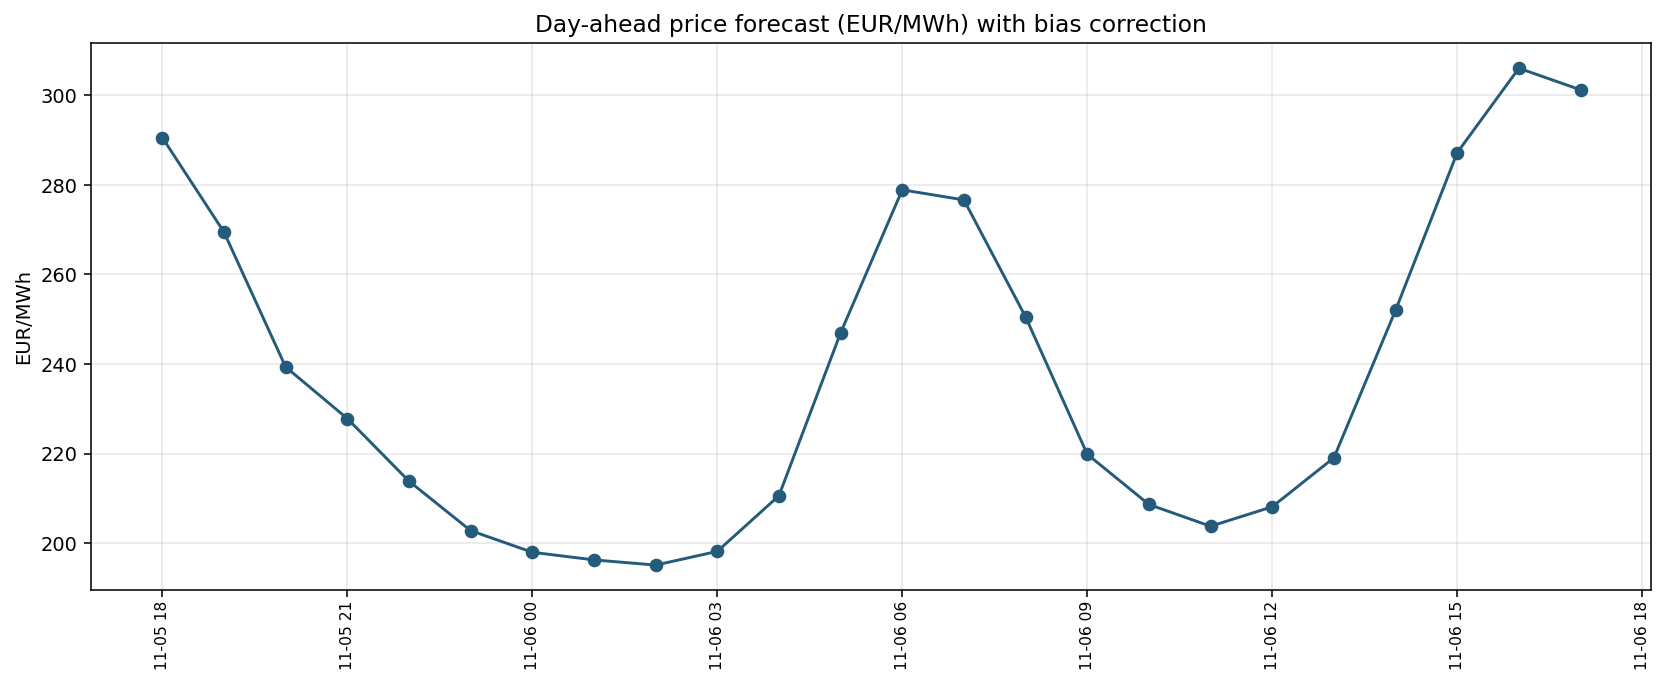
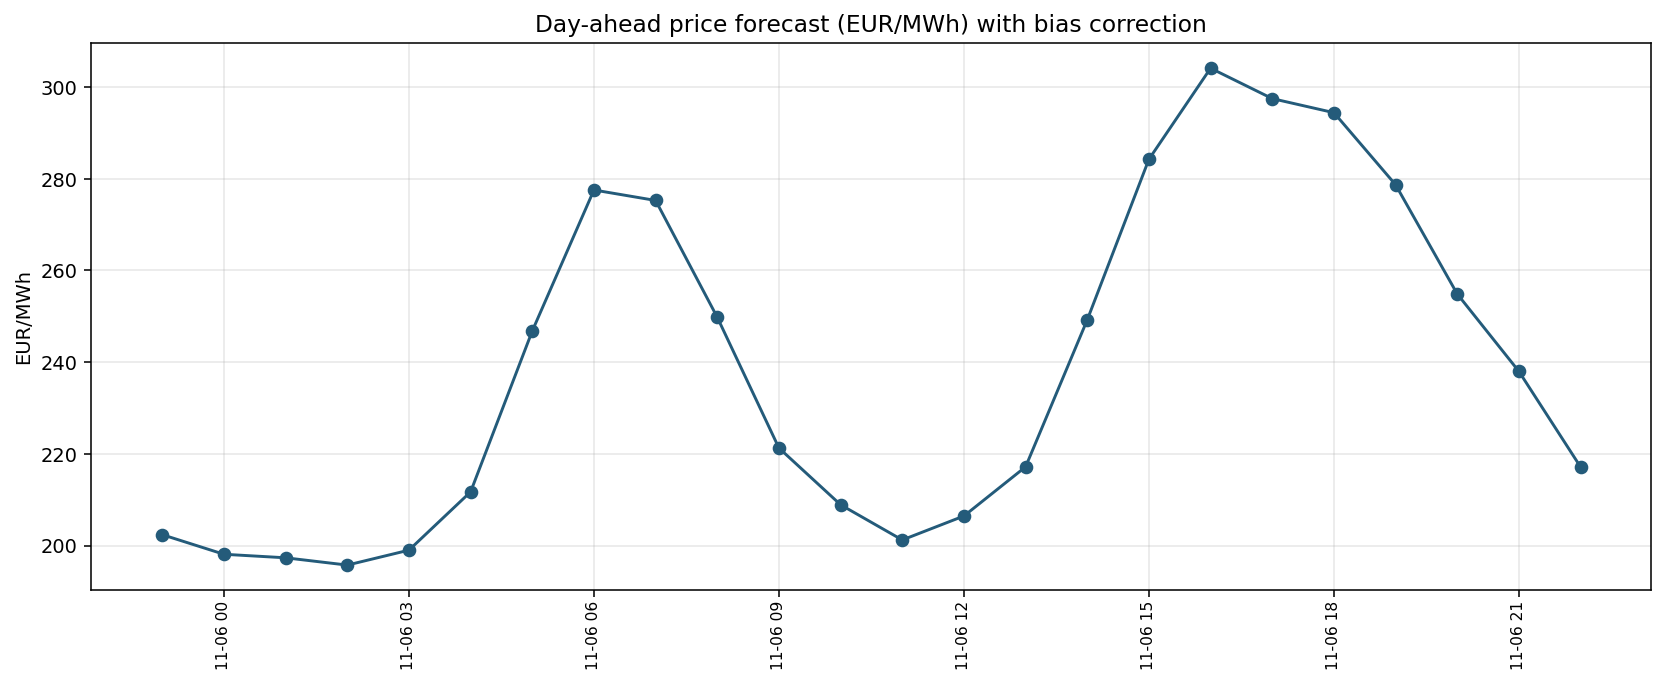
chore: daily forecast update

diff --git a/README.md b/README.md
@@ -195,9 +195,9 @@ Licence: MIT (code). Underlying market data remain subject to their original lic
 
 ## Live daily forecast
 
-**Generated (UTC):** 2026-11-05 17:50  
-**Based on data up to (UTC):** 2026-11-05 17:00  
-**Forecast horizon (UTC):** 2026-11-05 18:00 to 2026-11-06 17:00  
+**Generated (UTC):** 2026-11-05 22:36  
+**Based on data up to (UTC):** 2026-11-05 22:00  
+**Forecast horizon (UTC):** 2026-11-05 23:00 to 2026-11-06 22:00  
 **Protocol:** Conservative (external_shift = 24) + hourly bias correction
 
 ### Forecast chart
@@ -208,30 +208,30 @@ Licence: MIT (code). Underlying market data remain subject to their original lic
 
 | Hour (UTC) | Forecast (EUR/MWh) | Bias |
 |------------|--------------------|------|
-| 2026-11-05 18:00 | 290.54 | -28.29 |
-| 2026-11-05 19:00 | 269.44 | -28.50 |
-| 2026-11-05 20:00 | 239.33 | -17.88 |
-| 2026-11-05 21:00 | 227.81 | -24.98 |
-| 2026-11-05 22:00 | 213.83 | -37.54 |
-| 2026-11-05 23:00 | 202.79 | -29.25 |
-| 2026-11-06 00:00 | 197.95 | -31.10 |
-| 2026-11-06 01:00 | 196.25 | -31.47 |
-| 2026-11-06 02:00 | 195.09 | -30.02 |
-| 2026-11-06 03:00 | 198.15 | -31.39 |
-| 2026-11-06 04:00 | 210.58 | -19.08 |
-| 2026-11-06 05:00 | 246.93 | -18.95 |
-| 2026-11-06 06:00 | 278.87 | -29.89 |
-| 2026-11-06 07:00 | 276.61 | -36.01 |
-| 2026-11-06 08:00 | 250.50 | -30.88 |
-| 2026-11-06 09:00 | 219.84 | -26.55 |
-| 2026-11-06 10:00 | 208.62 | -26.69 |
-| 2026-11-06 11:00 | 203.76 | -27.23 |
-| 2026-11-06 12:00 | 208.11 | -27.10 |
-| 2026-11-06 13:00 | 219.05 | -24.43 |
-| 2026-11-06 14:00 | 251.99 | -34.17 |
-| 2026-11-06 15:00 | 287.17 | -37.54 |
-| 2026-11-06 16:00 | 306.02 | -31.74 |
-| 2026-11-06 17:00 | 301.19 | -22.09 |
+| 2026-11-05 23:00 | 202.36 | -29.25 |
+| 2026-11-06 00:00 | 198.09 | -31.10 |
+| 2026-11-06 01:00 | 197.32 | -31.47 |
+| 2026-11-06 02:00 | 195.73 | -30.02 |
+| 2026-11-06 03:00 | 198.99 | -31.39 |
+| 2026-11-06 04:00 | 211.71 | -19.08 |
+| 2026-11-06 05:00 | 246.81 | -18.95 |
+| 2026-11-06 06:00 | 277.56 | -29.89 |
+| 2026-11-06 07:00 | 275.28 | -36.01 |
+| 2026-11-06 08:00 | 249.79 | -30.88 |
+| 2026-11-06 09:00 | 221.27 | -26.55 |
+| 2026-11-06 10:00 | 208.89 | -26.69 |
+| 2026-11-06 11:00 | 201.21 | -27.23 |
+| 2026-11-06 12:00 | 206.44 | -27.10 |
+| 2026-11-06 13:00 | 217.17 | -24.43 |
+| 2026-11-06 14:00 | 249.23 | -34.17 |
+| 2026-11-06 15:00 | 284.26 | -37.54 |
+| 2026-11-06 16:00 | 304.13 | -31.74 |
+| 2026-11-06 17:00 | 297.50 | -22.09 |
+| 2026-11-06 18:00 | 294.43 | -32.44 |
+| 2026-11-06 19:00 | 278.71 | -33.82 |
+| 2026-11-06 20:00 | 254.88 | -27.17 |
+| 2026-11-06 21:00 | 237.99 | -30.09 |
+| 2026-11-06 22:00 | 217.14 | -37.03 |
 
 ### Previous forecasts vs realized prices
 
